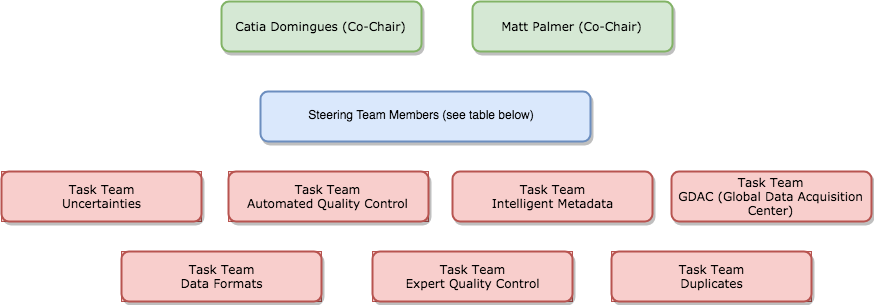
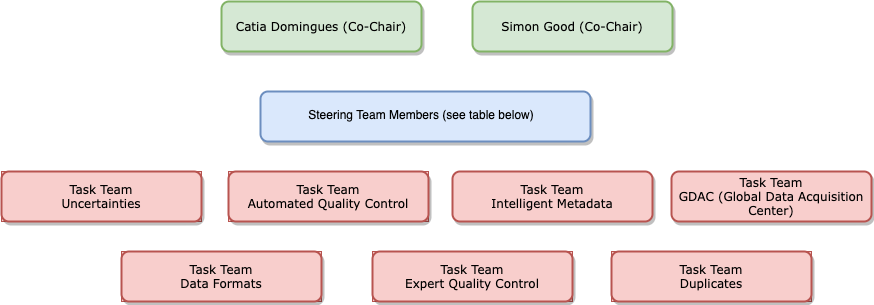
Update to structure chart and membership table, news items and documents errors fixed.

diff --git a/about.html b/about.html
@@ -120,9 +120,9 @@
               <hr>
           
               <span class="anchor" id="i7" ></span>
-              <h2 class="blog-post-title">Who's who?</h2>     
-              <h4>IQuOD members</h4>
-              <p>IQuOD is made up of a variety of scientists, data quality experts, instrument experts and data managers. Below is a list of the members and their affiliations.</p>
+              <h2 class="blog-post-title">Membership</h2>     
+              <h4>IQuOD members and meeting attendees</h4>
+              <p>IQuOD is made up of a variety of scientists, data quality experts, instrument experts and data managers. Below is a list of some of the members, those that have attended IQuOD workshops, and their affiliations.</p>
               <center>
                 <h2>IQuOD members</h2>
 
@@ -136,12 +136,12 @@
                   <tr>
                     <td>Co-Chair</td>
                     <td>Catia Domingues</td>
-                    <td>ACE-CRC</td>
-                    <td>Australia</td>
+                    <td>NOC and ACE-CRC</td>
+                    <td>UK and Australia</td>
                   </tr>
                   <tr>
                     <td>Co-Chair</td>
-                    <td>Matthew Palmer</td>
+                    <td>Simon Good</td>
                     <td>UK Met Office</td>
                     <td>UK</td>
                   </tr>
@@ -150,12 +150,6 @@
                     <td>Rebecca Cowley</td>
                     <td>CSIRO</td>
                     <td>Australia</td>
-                  </tr>
-                  <tr>
-                    <td>Steering Team</td>
-                    <td>Simon Good</td>
-                    <td>UK Met Office</td>
-                    <td>UK</td>
                   </tr>
                   <tr>
                     <td>Steering Team</td>
@@ -210,6 +204,12 @@
                     <td>Guilherme Castelao</td>
                     <td>UCSD</td>
                     <td>US</td>
+                  </tr>
+                <tr>
+                    <td>Member</td>
+                    <td>Matthew Palmer</td>
+                    <td>UK Met Office</td>
+                    <td>UK</td>
                   </tr>
                   <tr>
                     <td>Member</td>
@@ -351,12 +351,6 @@
                   </tr>             
                   <tr>
                     <td>Member</td>
-                    <td>Simona Simoncelli</td>
-                    <td>Istituto Nazionale di Geofisica e Vulcanologia, Sezione di Bologna</td>
-                    <td>Italy</td>
-                  </tr>  
-                  <tr>
-                    <td>Member</td>
                     <td>Andrea Storto</td>
                     <td>Centre for Maritime Research and Experimentation (CMRE)</td>
                     <td>Italy</td>
@@ -468,7 +462,7 @@
               <a href="#i3" class="list-group-item">IQuOD structure</a>
               <a href="#i4" class="list-group-item">IQuOD Goals</a>
               <a href="#i6" class="list-group-item">What do we require for the project to work?</a>
-              <a href="#i7" class="list-group-item">Who’s Who?</a>
+              <a href="#i7" class="list-group-item">Membership</a>
               <a href="#i8" class="list-group-item">Meeting Photos</a>
             </div>
           </div>

diff --git a/documents.html b/documents.html
@@ -43,13 +43,7 @@
 						<td style="text-align:center">
 							<a href="documents/iquod_4thWkshp_meeting_report_final.pdf">[pdf]</a> 
 						</td>
-                    </tr>                                        
-		   			<tr>
-						<td>Fourth Annual IQuOD Workshop Agenda, Tokyo, Japan, 2016</td>
-						<td style="text-align:center">
-							<a href="documents/4th_iquod_agenda_v2.1G.pdf">[pdf]</a> 
-						</td>
-                    </tr>                    
+                    </tr>                                                        
 		   			<tr>
 						<td>Third IQuoD workshop report, Hamburg, Germany, 2015</td>
 						<td style="text-align:center">

diff --git a/news.html b/news.html
@@ -23,7 +23,7 @@
         	<div class="col-sm-8 blog-main">
  				<div class="blog-post">
 	    			<span class="anchor" id="n12" ></span>
-            		<h3>IQuOD v0.1 temperature uncertainty specification paper published</h3>
+            		<h3>IQuOD v0.1 ML paper published</h3>
             		<p class="blog-post-meta">June, 2021</p>
 
 					<p>
